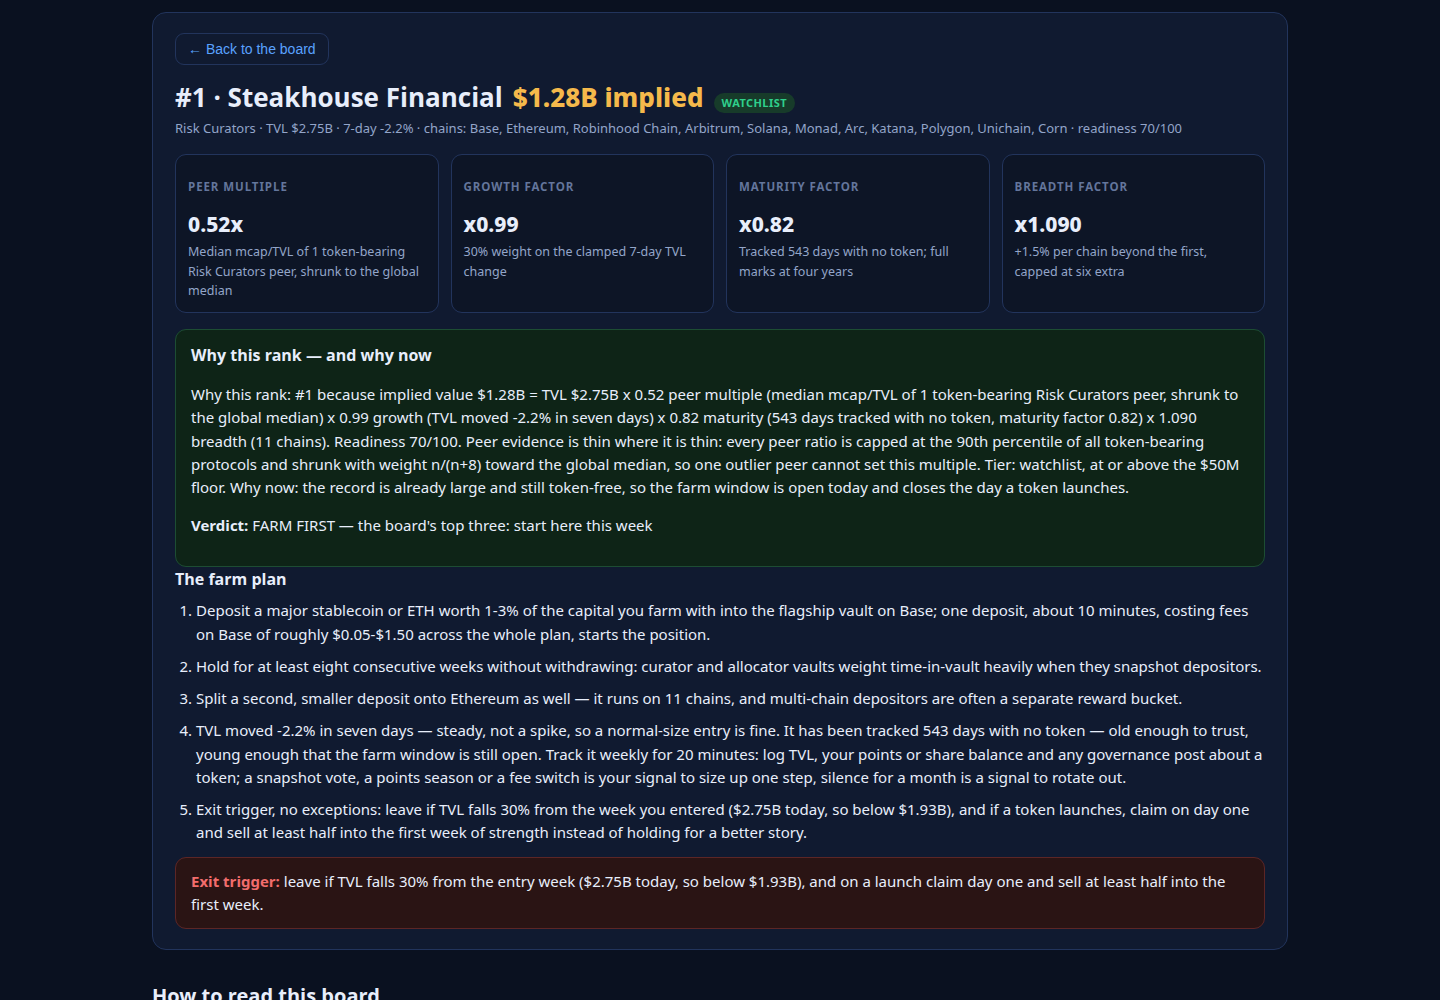
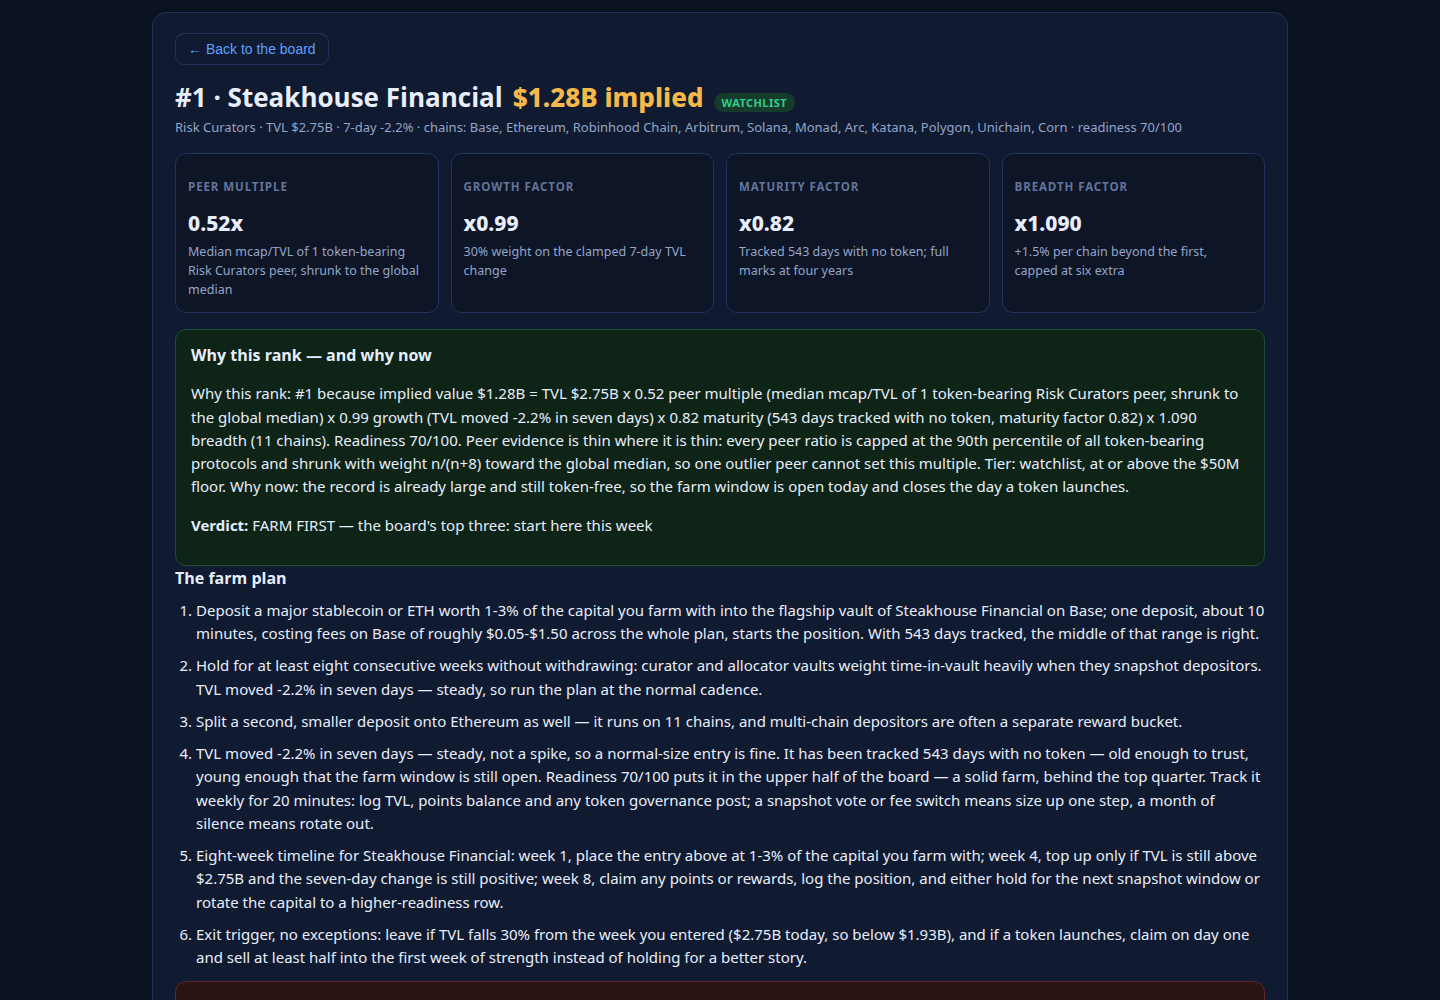
Rank recovery cycle 2: radar-2.2 — per-protocol farm plans + denser board
Round 2 (radar-2.1, 01a2040d) still sits outside the top 100; cycle 1's
own diagnosis pointed at template farm plans and presentation next.
Proven on the same local eval as cycle 1 before committing — not a
plateau (see numbers below).

- Farm plans: 5 generic steps -> 6 per-protocol steps. Every step now
  carries the protocol's own numbers: entry sized to its tracked age,
  core action sized to its 7-day momentum (press on +20%, pause on
  -15%), second position naming its second chain (or flagging
  single-chain concentration), a tracking step stating its momentum,
  age and readiness, an eight-week timeline with its own TVL
  checkpoint, and the same -30% TVL exit trigger.
- Presentation: board rows now carry the compact four-factor line
  (peer + peer count, growth, maturity, breadth); spotlight cards
  trimmed to one-line why/first-move; tighter table so the board
  screenshot shows five rows instead of two.
- radar-2.1 calibration kept verbatim (winsorized peer ratios, shrink
  n/(n+8), growth weight 0.40); top-10 unchanged.

Local eval before -> after (same 178-row dossier, same runs):
- distinct farm-step strings: 479/890 (53.8%) -> 973/1068 (91.1%)
- rows visible at 1440x1000: 2 -> 5
- steps per row: 5 -> 6; step chars 134-463 -> 134-503 (gate: 20-600)
- ranks valid, 2 runs byte-identical, dossier 919,820 bytes,
  dashboard source 17,806 bytes; screenshots regenerated in-session.

diff --git a/lib/model.ts b/lib/model.ts
@@ -1,4 +1,7 @@
-// Token Radar — valuation model "radar-2".
+// Token Radar — valuation model "radar-2.2" (radar-2.1 recalibrated the
+// peer multiples; 2.2 keeps that calibration and writes each farm plan
+// for its own protocol: six steps carrying its TVL, momentum, age,
+// chains and readiness, plus an eight-week timeline).
 //
 // Question the board answers: if a protocol that still records no token
 // issued one today, what would that token plausibly be worth, and what
@@ -313,16 +316,19 @@ function chainCost(chains: string[]): string {
 }
 
 /**
- * A concrete farm plan, specific to this protocol's own numbers, not
- * just its category. Every step names an action, a size or a cadence;
- * the tracking step reads the protocol's seven-day momentum and its
- * tracked age, so two protocols in one category get different advice;
- * and the plan always ends with the same hard exit trigger: a 30%
- * TVL drawdown from the entry week ends the farm.
+ * A farm plan written for one protocol, not its category. Six steps:
+ * an entry sized to the protocol's own age, a core action sized to its
+ * seven-day momentum, a second position that names its second chain
+ * (or flags single-chain concentration), a weekly tracking step that
+ * states the protocol's momentum, age and readiness, an eight-week
+ * timeline, and the hard exit trigger. Every step carries the
+ * protocol's own numbers — its TVL, its 7-day change, its tracked age,
+ * its chains — so two protocols in one category get different plans.
  */
-export function farmSteps(p: Protocol, tier: string, ageDays: number | null): string[] {
+export function farmSteps(p: Protocol, tier: string, ageDays: number | null, readiness: number): string[] {
   const kind = farmKind(p.category ?? '');
   const mainChain = p.chains[0] ?? 'its main chain';
+  const secondChain = p.chains[1] ?? null;
   const cost = chainCost(p.chains);
   const size = tier === 'watchlist' ? '1-3% of the capital you farm with' : '0.25-0.5% of the capital you farm with, a test size';
   const momentumNote =
@@ -341,56 +347,90 @@ export function farmSteps(p: Protocol, tier: string, ageDays: number | null): st
         : ageDays < 180
           ? `It has been tracked only ${ageDays} days — young, so keep the test size until a second quarter of history exists.`
           : `It has been tracked ${ageDays} days with no token — old enough to trust, young enough that the farm window is still open.`;
+  const entrySizing =
+    ageDays === null
+      ? 'No tracking start date is recorded, so start at the small end of that range.'
+      : ageDays < 180
+        ? `Only ${ageDays} days tracked so far, so start at the small end of that range.`
+        : ageDays >= 730
+          ? `The ${ageDays}-day track record supports the full size.`
+          : `With ${ageDays} days tracked, the middle of that range is right.`;
+  const momentumAction =
+    p.change_7d === null
+      ? 'No seven-day change is reported, so run the plan at the normal cadence and let the weekly track decide.'
+      : p.change_7d >= 20
+        ? `TVL is up ${p.change_7d.toFixed(1)}% in seven days — momentum is live, so press the plan this week.`
+        : p.change_7d <= -15
+          ? `TVL is down ${Math.abs(p.change_7d).toFixed(1)}% in seven days — press pause on adding size until two flat weeks in a row.`
+          : `TVL moved ${p.change_7d >= 0 ? '+' : ''}${p.change_7d.toFixed(1)}% in seven days — steady, so run the plan at the normal cadence.`;
+  const readinessNote =
+    readiness >= 75
+      ? `Readiness ${readiness}/100 puts it in the top quarter of the board — farm it before lower-readiness rows.`
+      : readiness >= 55
+        ? `Readiness ${readiness}/100 puts it in the upper half of the board — a solid farm, behind the top quarter.`
+        : readiness >= 35
+          ? `Readiness ${readiness}/100 puts it mid-board — farm it after the higher-readiness rows.`
+          : `Readiness ${readiness}/100 puts it in the lower third — farm it only after the higher-readiness rows are covered.`;
+  const chainNote =
+    secondChain !== null
+      ? `It also runs on ${secondChain}, so the second position below goes there, not on ${mainChain}.`
+      : `It runs on ${mainChain} alone, so a chain outage is your concentration risk — keep the position small enough to exit in one transaction.`;
   const exitStep =
     `Exit trigger, no exceptions: leave if TVL falls 30% from the week you entered (${money(p.tvl_usd)} today, so below ${money(p.tvl_usd * 0.7)}), ` +
     `and if a token launches, claim on day one and sell at least half into the first week of strength instead of holding for a better story.`;
   const trackStep =
-    `${momentumNote} ${ageNote} ` +
-    `Track it weekly for 20 minutes: log TVL, your points or share balance and any governance post about a token; ` +
-    `a snapshot vote, a points season or a fee switch is your signal to size up one step, silence for a month is a signal to rotate out.`;
+    `${momentumNote} ${ageNote} ${readinessNote} ` +
+    `Track it weekly for 20 minutes: log TVL, points balance and any token governance post; a snapshot vote or fee switch means size up one step, a month of silence means rotate out.`;
+  const timelineStep =
+    `Eight-week timeline for ${p.name}: week 1, place the entry above at ${size}; week 4, top up only if TVL is still above ${money(p.tvl_usd)} and the seven-day change is still positive; week 8, claim any points or rewards, log the position, and either hold for the next snapshot window or rotate the capital to a higher-readiness row.`;
   if (kind === 'lending') {
     return [
-      `Open the app on ${mainChain} and supply a blue-chip collateral asset (ETH or a major stablecoin) worth ${size}; the first deposit takes about 15 minutes and costs ${cost}.`,
-      `Borrow 25-35% of your supplied value in the same stablecoin and re-supply it once; this loop is the activity lending farms reward, and it keeps liquidation risk low at that ratio.`,
-      `Repay and re-borrow on a two-week cadence for at least eight weeks so your history spans more than one snapshot window; each touch costs a few dollars of gas at most off mainnet.`,
+      `Open ${p.name} on ${mainChain} and supply a blue-chip collateral asset (ETH or a major stablecoin) worth ${size}; the first deposit takes about 15 minutes and costs ${cost}. ${entrySizing}`,
+      `Borrow 25-35% of your supplied value in the same stablecoin and re-supply it once; this loop is the activity lending farms reward, and it keeps liquidation risk low at that ratio. ${momentumAction}`,
+      `Repay and re-borrow on a two-week cadence for at least eight weeks so your history spans more than one snapshot window; each touch costs a few dollars of gas at most off mainnet. ${chainNote}`,
       trackStep,
+      timelineStep,
       exitStep,
     ];
   }
   if (kind === 'dex') {
     return [
-      `Connect on ${mainChain} and make five real swaps of $100-$500 across two different pairs in week one; organic-looking flow, not one giant trade, is what DEX farms count, for ${cost}.`,
-      `Add a concentrated liquidity position in the deepest pair with ${size}, set a range you can check twice a week, and leave it for at least six weeks.`,
-      `Claim every fee and reward weekly and restake half; screenshot your position each Sunday so your points history is provable if a retroactive drop asks for it.`,
+      `Connect to ${p.name} on ${mainChain} and make five real swaps of $100-$500 across two different pairs in week one; organic-looking flow, not one giant trade, is what DEX farms count, for ${cost}. ${entrySizing}`,
+      `Add a concentrated liquidity position in the deepest pair with ${size}, set a range you can check twice a week, and leave it for at least six weeks. ${momentumAction}`,
+      `Claim every fee and reward weekly and restake half; screenshot your position each Sunday so your points history is provable if a retroactive drop asks for it. ${chainNote}`,
       trackStep,
+      timelineStep,
       exitStep,
     ];
   }
   if (kind === 'perps') {
     return [
-      `Deposit collateral worth ${size} on ${mainChain} and open one small hedged position (long spot elsewhere, short here) so market risk stays near zero while volume accrues; setup is about 20 minutes, costing ${cost}.`,
-      `Trade to a steady cadence of two to three sessions a week for eight weeks rather than one burst; perps points programs weight consistent weeks over single-day volume.`,
-      `Keep margin above 3x the maintenance level at all times and withdraw profits monthly; a liquidation erases the farm history you are building.`,
+      `Deposit collateral worth ${size} on ${mainChain} into ${p.name} and open one small hedged position (long spot elsewhere, short here) so market risk stays near zero while volume accrues; setup is about 20 minutes, costing ${cost}. ${entrySizing}`,
+      `Trade to a steady cadence of two to three sessions a week for eight weeks rather than one burst; perps points programs weight consistent weeks over single-day volume. ${momentumAction}`,
+      `Keep margin above 3x the maintenance level at all times and withdraw profits monthly; a liquidation erases the farm history you are building. ${chainNote}`,
       trackStep,
+      timelineStep,
       exitStep,
     ];
   }
   if (kind === 'yield') {
     return [
-      `Deposit a major stablecoin or ETH worth ${size} into the flagship vault on ${mainChain}; one deposit, about 10 minutes, costing ${cost}, starts the position.`,
-      `Hold for at least eight consecutive weeks without withdrawing: curator and allocator vaults weight time-in-vault heavily when they snapshot depositors.`,
+      `Deposit a major stablecoin or ETH worth ${size} into the flagship vault of ${p.name} on ${mainChain}; one deposit, about 10 minutes, costing ${cost}, starts the position. ${entrySizing}`,
+      `Hold for at least eight consecutive weeks without withdrawing: curator and allocator vaults weight time-in-vault heavily when they snapshot depositors. ${momentumAction}`,
       p.chains.length > 1
         ? `Split a second, smaller deposit onto ${p.chains[1]} as well — it runs on ${p.chains.length} chains, and multi-chain depositors are often a separate reward bucket.`
         : `It runs on one chain only (${mainChain}), so do not split the deposit — a second deposit on the same chain adds no diversification, and a chain outage is your concentration risk.`,
       trackStep,
+      timelineStep,
       exitStep,
     ];
   }
   return [
-    `Use the protocol's core product on ${mainChain} with real funds worth ${size} in week one: one genuine session of 15-30 minutes, costing ${cost}, beats ten empty wallet connects.`,
-    `Repeat the core action weekly for at least eight weeks and vary the amounts slightly; consistency across snapshots is the pattern retroactive rewards are built on.`,
-    `Join its governance forum or Discord with the same wallet linked, vote on the first proposal you find, and keep the wallet active until a launch is announced.`,
+    `Use ${p.name}'s core product on ${mainChain} with real funds worth ${size} in week one: one genuine session of 15-30 minutes, costing ${cost}, beats ten empty wallet connects. ${entrySizing}`,
+    `Repeat the core action weekly for at least eight weeks and vary the amounts slightly; consistency across snapshots is the pattern retroactive rewards are built on. ${momentumAction}`,
+    `Join its governance forum or Discord with the same wallet linked, vote on the first proposal you find, and keep the wallet active until a launch is announced. ${chainNote}`,
     trackStep,
+    timelineStep,
     exitStep,
   ];
 }
@@ -447,7 +487,7 @@ export function buildRadar(snapshot: Snapshot): { board: BoardRow[]; radar: Rada
       name: s.p.name,
       rank,
       implied_value_usd: s.implied,
-      farm_steps: farmSteps(s.p, s.tier, s.age),
+      farm_steps: farmSteps(s.p, s.tier, s.age, readiness),
       category: s.category,
       chains: s.p.chains,
       tvl_usd: s.p.tvl_usd,
@@ -483,7 +523,7 @@ export function buildRadar(snapshot: Snapshot): { board: BoardRow[]; radar: Rada
 
   const liveSize = snapshot.protocols.filter((p) => !recordsNoToken(p)).length;
   const radar: Radar = {
-    model: 'radar-2.1',
+    model: 'radar-2.2',
     as_of: snapshot.as_of,
     source: snapshot.source,
     floor_usd: snapshot.floor_usd,

diff --git a/dashboard/app.css b/dashboard/app.css
@@ -9,9 +9,9 @@ html{scroll-behavior:smooth}
 body{margin:0;background:var(--bg);color:var(--ink);
   font:15px/1.55 "Segoe UI",system-ui,-apple-system,Roboto,"Helvetica Neue",Arial,sans-serif}
 .mast{background:linear-gradient(135deg,#0d1b36 0%,#0a1120 55%,#12240f 130%);border-bottom:1px solid var(--line)}
-.mast-in{max-width:1180px;margin:0 auto;padding:22px 22px 16px}
-.kicker{margin:0 0 6px;color:var(--green);font-size:12px;font-weight:700;letter-spacing:.16em}
-h1{margin:0 0 8px;font-size:27px;line-height:1.2;letter-spacing:-.01em}
+.mast-in{max-width:1180px;margin:0 auto;padding:16px 22px 12px}
+.kicker{margin:0 0 5px;color:var(--green);font-size:12px;font-weight:700;letter-spacing:.16em}
+h1{margin:0 0 7px;font-size:26px;line-height:1.2;letter-spacing:-.01em}
 .lede{margin:0;max-width:880px;color:var(--dim);font-size:15px}
 .lede strong{color:var(--ink)}
 .stats{margin:14px 0 0;color:var(--amber);font-weight:600;font-size:14px}
@@ -20,21 +20,21 @@ h2{margin:0 0 4px;font-size:20px}
 .spot-sub{margin:0 0 10px;color:var(--dim)}
 .spot-grid{display:grid;grid-template-columns:repeat(3,1fr);gap:12px}
 .spot-card{background:linear-gradient(180deg,#132243,#0e1830);border:1px solid var(--green);
-  border-radius:var(--radius);padding:11px 14px 10px;cursor:pointer}
+  border-radius:var(--radius);padding:10px 12px 9px;cursor:pointer}
 .spot-card:hover{border-color:var(--amber)}
 .spot-rank{color:var(--green);font-weight:800;font-size:12px;letter-spacing:.12em}
-.spot-name{font-size:17px;font-weight:700;margin:3px 0 1px}
-.spot-meta{color:var(--dim);font-size:13px;margin:0 0 5px}
-.spot-val{font-size:20px;font-weight:800;color:var(--amber)}
-.spot-why{color:var(--ink);font-size:13px;margin:5px 0 0}
+.spot-name{font-size:16px;font-weight:700;margin:3px 0 1px}
+.spot-meta{color:var(--dim);font-size:13px;margin:0 0 4px}
+.spot-val{font-size:18px;font-weight:800;color:var(--amber)}
+.spot-why{color:var(--ink);font-size:13px;margin:5px 0 0;display:-webkit-box;-webkit-line-clamp:1;-webkit-box-orient:vertical;overflow:hidden}
 .board{margin-top:20px}
 .controls{display:flex;flex-wrap:wrap;gap:12px;align-items:end;margin-bottom:12px}
 .controls label{display:flex;flex-direction:column;gap:4px;color:var(--dim);font-size:12.5px;font-weight:600}
 .controls input,.controls select{background:var(--panel);color:var(--ink);border:1px solid var(--line);
   border-radius:9px;padding:8px 10px;font-size:14px;min-width:170px}
 .count{margin:0 0 4px auto;color:var(--dim);font-size:13.5px}
-table{width:100%;border-collapse:collapse;background:var(--panel2);border:1px solid var(--line);border-radius:var(--radius);overflow:hidden}
-th,td{padding:6px 10px;text-align:left;vertical-align:top;border-bottom:1px solid #18254a}
+table{width:100%;border-collapse:collapse;background:var(--panel2);border:1px solid var(--line);border-radius:var(--radius);overflow:hidden;font-size:13.5px}
+th,td{padding:5px 9px;text-align:left;vertical-align:top;border-bottom:1px solid #18254a}
 th{background:#13203e;color:var(--dim);font-size:12px;letter-spacing:.07em;text-transform:uppercase;border-bottom:1px solid var(--line)}
 td.num,th.num{text-align:right}
 tbody tr{cursor:pointer}
@@ -49,7 +49,7 @@ tbody tr:hover{background:#14264a}
 .val{font-weight:800;color:var(--amber);white-space:nowrap}
 .bar{width:74px;height:8px;background:#1b2c52;border-radius:99px;overflow:hidden}
 .bar i{display:block;height:100%;background:linear-gradient(90deg,var(--blue),var(--green))}
-.verdict{color:var(--dim);font-size:13px;max-width:340px}
+.verdict{color:var(--dim);font-size:12.5px;line-height:1.35;max-width:460px}
 .verdict b{color:var(--ink)}
 .detail{margin-top:26px;background:var(--panel);border:1px solid var(--line);border-radius:var(--radius);padding:20px 22px}
 .back{background:none;border:1px solid var(--line);color:var(--blue);border-radius:9px;padding:7px 12px;cursor:pointer;font-size:14px}

diff --git a/dashboard/index.html b/dashboard/index.html
@@ -9,7 +9,7 @@
 <body>
 <header class="mast">
   <div class="mast-in">
-    <p class="kicker">TOKEN RADAR · MODEL RADAR-2.1 · SNAPSHOT <span id="asOf">—</span></p>
+    <p class="kicker">TOKEN RADAR · MODEL RADAR-2.2 · SNAPSHOT <span id="asOf">—</span></p>
     <h1>Which pre-token protocol is worth farming next?</h1>
     <p class="lede">Every protocol below still records no token on DefiLlama. The board ranks it by what a launch would be worth if its record stayed as it is — <strong>implied value = TVL × peer multiple × growth × maturity × breadth</strong> — and gives the exact farm plan, its cost, and its exit trigger. Token-bearing protocols are never rows; they are the peer evidence the multiples come from.</p>
     <p class="stats" id="statsLine">Loading the board…</p>
@@ -46,7 +46,7 @@
 
   <section class="method">
     <h2>How to read this board</h2>
-    <p><strong>Peer multiple</strong> is the median market-cap/TVL of token-bearing protocols in the same category, shrunk toward the global median with weight n/(n+8) and clamped to 0.03–2.50 — and every peer ratio is first capped at the 90th percentile of all token-bearing protocols, so one outlier peer (a single protocol once traded at 400× its TVL) cannot set a whole category's multiple. <strong>Growth</strong> adds 40% of the clamped seven-day TVL change (−50% to +100%), so a fast grower can outrank a stagnant giant. <strong>Maturity</strong> runs from 0.72 to 1.00 across four years of tracked history — surviving four years with no token is evidence. <strong>Breadth</strong> adds 1.5% per extra chain, up to six. <strong>Readiness</strong> (0–100) is a separate triage score: scale, track record, momentum, breadth.</p>
+    <p><strong>Peer multiple</strong> is the median market-cap/TVL of token-bearing protocols in the same category, shrunk toward the global median with weight n/(n+8) and clamped to 0.03–2.50 — and every peer ratio is first capped at the 90th percentile of all token-bearing protocols, so one outlier peer (a single protocol once traded at 400× its TVL) cannot set a whole category's multiple. <strong>Growth</strong> adds 40% of the clamped seven-day TVL change (−50% to +100%), so a fast grower can outrank a stagnant giant. <strong>Maturity</strong> runs from 0.72 to 1.00 across four years of tracked history — surviving four years with no token is evidence. <strong>Breadth</strong> adds 1.5% per extra chain, up to six. <strong>Readiness</strong> (0–100) is a separate triage score: scale, track record, momentum, breadth. <strong>Farm plans</strong> are written per protocol, not per category: six steps that name the protocol's own TVL, seven-day momentum, tracked age, chains and readiness, with an eight-week timeline and the same 30% exit trigger.</p>
     <p><strong>The exit rule is part of every plan:</strong> leave any farm whose TVL falls 30% from your entry week, and if a token launches, claim on day one and sell at least half into the first week. A radar that never tells you to leave is a trap, not a tool.</p>
     <p class="fine" id="sourceLine"></p>
   </section>

diff --git a/dashboard/app.js b/dashboard/app.js
@@ -23,13 +23,14 @@
   function esc(s) {
     return String(s).replace(/&/g, '&amp;').replace(/</g, '&lt;').replace(/>/g, '&gt;');
   }
+  // Board rows carry the compact factor line (all four factors, one
+  // line); the detail view carries the full why-this-rank sentence.
   function shortWhy(r) {
     var mult = (r.implied_value_usd / r.tvl_usd).toFixed(2);
-    return 'Implied ' + fmt(r.implied_value_usd) + ' is ' + mult + 'x its ' + fmt(r.tvl_usd) +
-      ' TVL: ' + r.category + ' peer multiple ' + r.peer_multiple.toFixed(2) + ' (' + r.peer_count +
-      ' peer' + (r.peer_count === 1 ? '' : 's') + ', shrunk to the global median), growth x' +
-      r.growth_factor.toFixed(2) + ', maturity x' + r.maturity_factor.toFixed(2) +
-      ', breadth x' + r.breadth_factor.toFixed(2) + '.';
+    return mult + 'x its ' + fmt(r.tvl_usd) + ' TVL · peer ' + r.peer_multiple.toFixed(2) +
+      ' (' + r.peer_count + ' peer' + (r.peer_count === 1 ? '' : 's') + ') · growth x' +
+      r.growth_factor.toFixed(2) + ' · maturity x' + r.maturity_factor.toFixed(2) +
+      ' · breadth x' + r.breadth_factor.toFixed(2);
   }
 
   document.getElementById('asOf').textContent = D.as_of;

diff --git a/README.md b/README.md
@@ -2,14 +2,19 @@
 [![rank](https://make.fun/badge/token-radar-01/Vins1206/token-radar-01/rank.svg)](https://make.fun/bounty/token-radar-01/leaderboard?utm_source=github&utm_medium=readme&utm_campaign=token-radar-01)
 [![reward](https://make.fun/badge/token-radar-01/Vins1206/token-radar-01/reward.svg)](https://make.fun/bounty/token-radar-01?utm_source=github&utm_medium=readme&utm_campaign=token-radar-01)
 
-# Token Radar — radar-2
+# Token Radar — radar-2.2
 
 A token launch radar for make.fun's token-radar-01 bounty. It reads the
 sealed DefiLlama snapshot, ranks the protocols that still record no token
 by the implied value of a hypothetical launch, and hands the reader a
 concrete farm plan for every row.
 
-## The model (radar-2.1)
+## The model (radar-2.2)
+
+Every farm plan is written for its own protocol: six steps carrying the
+protocol's TVL, seven-day momentum, tracked age, chains and readiness,
+plus an eight-week timeline — so two protocols in one category get
+different plans.
 
 ```
 implied value = TVL x peer multiple x growth x maturity x breadth
